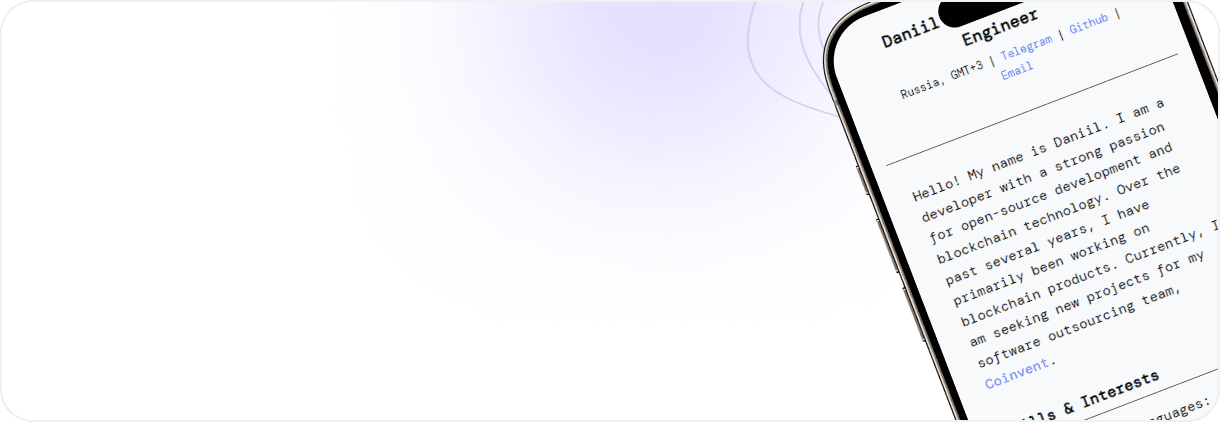
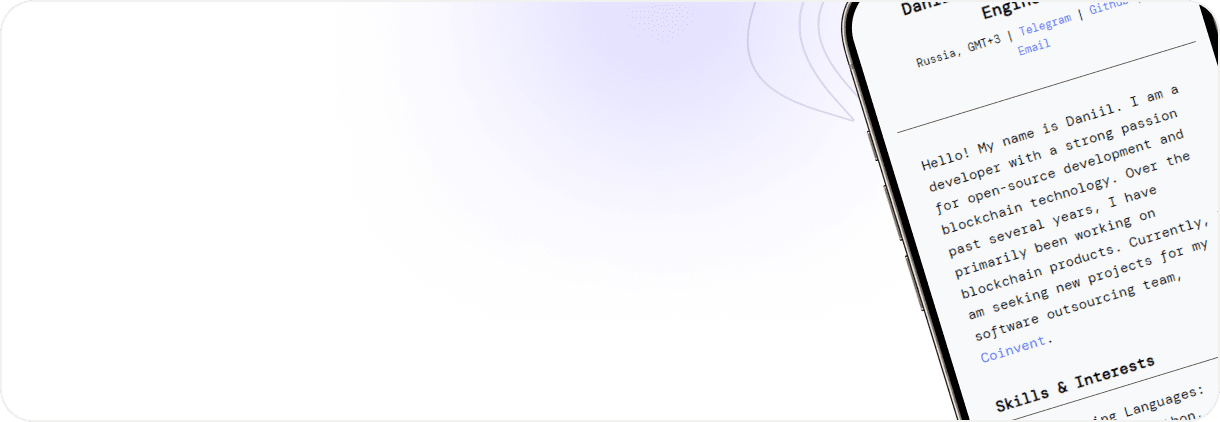
change version for mobile

diff --git a/src/components/About/About.module.scss b/src/components/About/About.module.scss
@@ -8,7 +8,7 @@
 
 .Screen {
 	overflow: hidden;
-	margin-top: 34px;
+	margin-top: 25px;
 	max-width: 1250px;
 	margin-left: auto;
 	margin-right: auto;
@@ -19,7 +19,7 @@
 	'Block4'
 	'Block5'
 	'Block3';
-	gap: 40px;
+	gap: 30px;
 
 	@media (min-width: 768px) {
 		& {
@@ -32,6 +32,7 @@
 			'Block2 Block2'
 			'Block4 Block4';
 			gap: 40px;
+			margin-top: 34px;
 			position: relative;
 		}
 	}
@@ -129,14 +130,12 @@
 	margin-right: auto;
 
 	@media (min-width: 768px) {
-		& {
-			width: 750px;
-		}
+		width: 750px;
 	}
 
 	@media (min-width: 840px) {
 		& {
-			width: 824px;
+			width: 840px;
 		}
 	}
 	&_Img {
@@ -213,7 +212,7 @@
 
 	@media (min-width: 840px) {
 		& {
-			width: 824px;
+			width: 790px;
 		}
 	}
 	&_Img {
@@ -245,7 +244,11 @@
 
 
 	&_Underline {
-		margin-left: 50%;
+		width: 96px;
+		margin-left: 46%;
+		@media (min-width: 768px) {
+			width: auto;
+		}
 	}
 
 	&_Title {

diff --git a/src/components/Start/Start.module.scss b/src/components/Start/Start.module.scss
@@ -162,15 +162,20 @@
 
 .Comment {
 	background-image: url("../../assets/backgrounds/commentSM.png");
-	background-position: center;
+	background-position: bottom;
 	border-radius: 1.5rem;
 	background-size: cover;
 	width: 90%;
-	padding-bottom: 200px;
+	padding-bottom: 220px;
 	height: 180px;
 	margin-top: 35px;
 	margin-left: auto;
 	margin-right: auto;
+
+	@media (min-width: 376px) {
+		padding-bottom: 200px;
+		background-position: center;
+	}
 
 	@media (min-width: 560px) {
 		& {
@@ -198,10 +203,12 @@
 		line-height: 99%; /* 33.66px */
 		letter-spacing: -2.72px;
 		padding: 20px;
+		padding-right: 37px;
 
 		@media (min-width: 560px) {
 			& {
 				max-width: 58%;
+				padding-right: 20px;
 			}
 		}
 

diff --git a/src/components/People/People.module.scss b/src/components/People/People.module.scss
@@ -13,15 +13,20 @@
 }
 
 .Main {
-	margin-top: 50px;
+	margin-top: 25px;
 	display:flex;
-	gap: 30px;
+	gap: 13px;
 	width: 100%;
 	flex-direction: column;
 	margin-right: auto;
 	margin-left: auto;
+	@media (min-width: 640px) {
+		gap: 30px;
+		margin-top: 50px;
+	}
 	@media (min-width: 1250px) {
 		& {
+			gap: 30px;
 			width: max-content;
 			flex-direction: row;
 		}
@@ -266,9 +271,12 @@
 }
 
 .LastText {
-	margin-top: 78px;
+	margin-top: 50px;
 	display: flex;
 	justify-content: space-between;
+	@media (min-width: 600px) {
+		margin-top: 78px;
+	}
 }
 
 .NameAndPhoto {

diff --git a/src/components/Projects/Projects.module.scss b/src/components/Projects/Projects.module.scss
@@ -6,13 +6,17 @@
 }
 
 .Screen {
-	margin-top: 71px;
+	margin-top: 50px;
 	max-width: 1250px;
 	margin-left: auto;
 	margin-right: auto;
 	display: flex;
 	flex-direction: column;
-	gap: 50px;
+	gap: 25px;
+	@media (min-width: 600px) {
+		gap: 50px;
+		margin-top: 71px;
+	}
 }
 
 .Upper {
@@ -29,7 +33,7 @@
 	text-align: right;
 	max-width: 917px;
 	margin-right: 24px;
-	margin-left: 24px;
+	margin-left: 6px;
 	@media (min-width: 600px) {
 		& {
 			font-size: 48px;

diff --git a/src/components/Footer/Footer.module.scss b/src/components/Footer/Footer.module.scss
@@ -49,11 +49,9 @@
 		width: 100vw;
 		position: absolute;
 		@media (min-width: 601px) {
-			& {
-				width: 100%;
-				margin-left: 0%;
-				margin-right: 0%;
-			}
+			width: 100%;
+			margin-left: 0%;
+			margin-right: 0%;
 		}
 		z-index: -1;
 	}
@@ -262,9 +260,7 @@
 	}
 
 	@media (min-width: 601px) {
-		& {
-			display: none;
-		}
+		display: none;
 	}
 
 	&Btns {
